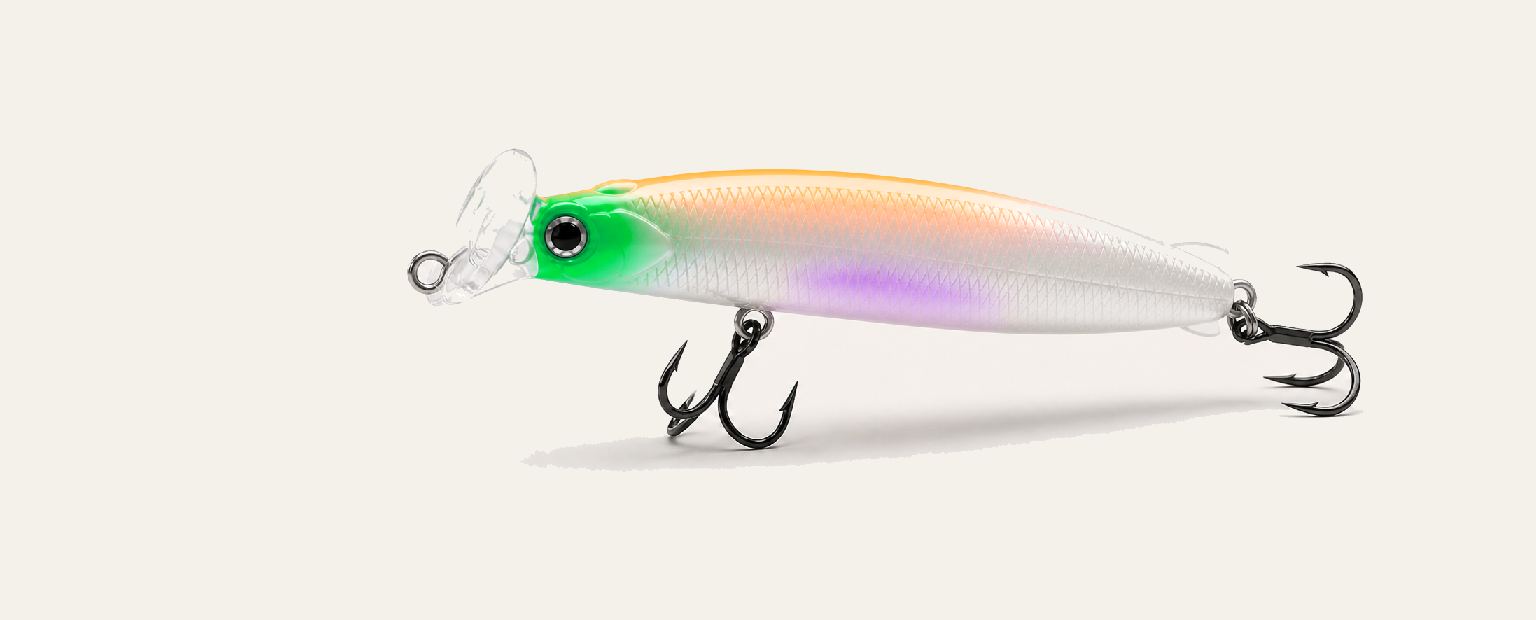
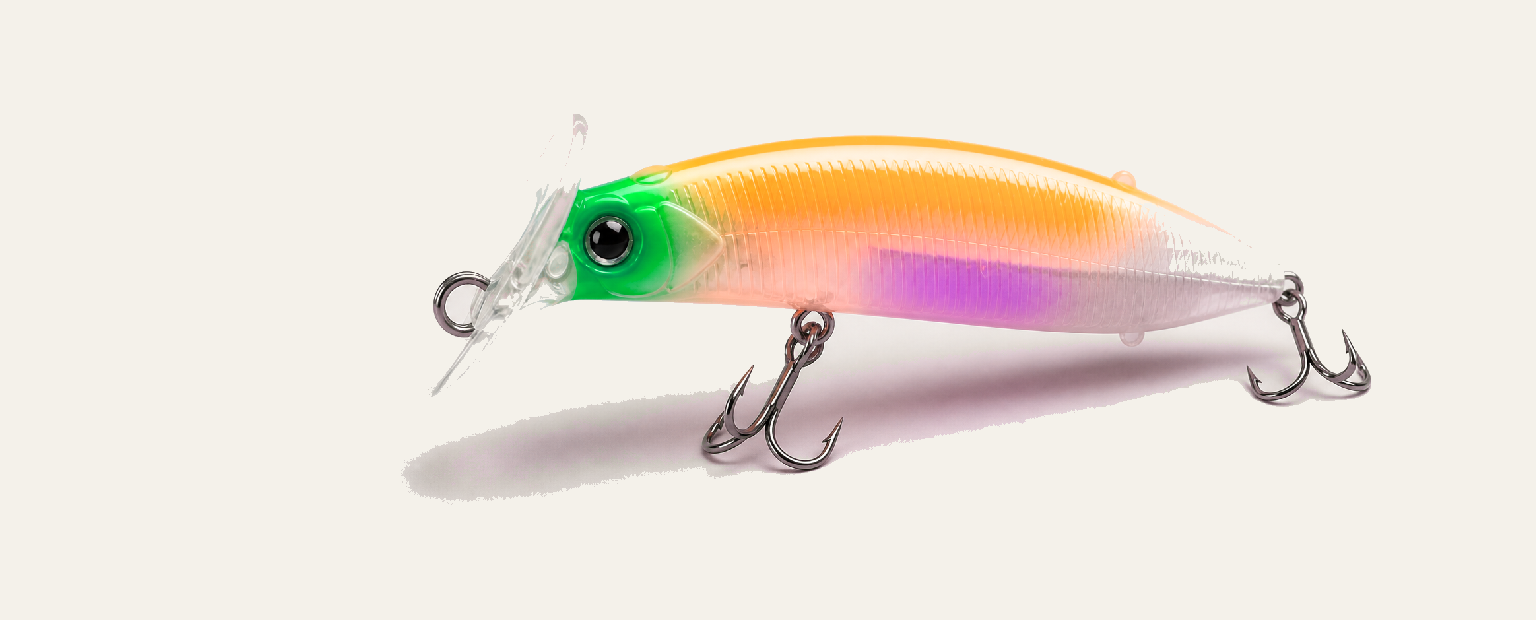
Put the tail fins ahead of a restored tail cone.

Changed region(s): [[0.25, 0.2145, 0.9062, 0.8274], [0.375, 0.1839, 0.4062, 0.2145], [0.2812, 0.3065, 0.3125, 0.3371]]

diff --git a/index.html b/index.html
@@ -21,7 +21,7 @@
   <meta name="twitter:title" content="Aftercast — Private-label bass and inshore lures">
   <meta name="twitter:description" content="Existing molds, your colors and pack, small runs, quoted to your door.">
   <meta name="twitter:image" content="https://aftercast.net/assets/logo.png">
-  <link rel="stylesheet" href="styles.css?v=lure11">
+  <link rel="stylesheet" href="styles.css?v=lure12">
   <script type="application/ld+json">
   {
     "@context": "https://schema.org",
@@ -152,18 +152,18 @@
             <div class="lure-stage">
               <img
                 data-lure-art
-                data-base="assets/lure/cgi.png?v=lure11"
-                src="assets/lure/cgi.png?v=lure11"
+                data-base="assets/lure/cgi.png?v=lure12"
+                src="assets/lure/cgi.png?v=lure12"
                 alt="Citrus finish on this mold"
               >
             </div>
             <div class="lure-finishes">
               <p class="lure-finishes-title">Your colors on this mold</p>
               <div class="swatches" role="list">
-                <button type="button" class="swatch swatch-citrus is-on" data-finish="citrus" data-src="assets/lure/cgi.png?v=lure11" role="listitem" aria-label="Citrus"></button>
-                <button type="button" class="swatch swatch-blossom" data-finish="blossom" data-src="assets/lure/blossom.png?v=lure11" role="listitem" aria-label="Blossom"></button>
-                <button type="button" class="swatch swatch-gulf" data-finish="gulf" data-src="assets/lure/gulf.png?v=lure11" role="listitem" aria-label="Gulf"></button>
-                <button type="button" class="swatch swatch-leopard" data-finish="leopard" data-src="assets/lure/leopard.png?v=lure11" role="listitem" aria-label="Leopard"></button>
+                <button type="button" class="swatch swatch-citrus is-on" data-finish="citrus" data-src="assets/lure/cgi.png?v=lure12" role="listitem" aria-label="Citrus"></button>
+                <button type="button" class="swatch swatch-blossom" data-finish="blossom" data-src="assets/lure/blossom.png?v=lure12" role="listitem" aria-label="Blossom"></button>
+                <button type="button" class="swatch swatch-gulf" data-finish="gulf" data-src="assets/lure/gulf.png?v=lure12" role="listitem" aria-label="Gulf"></button>
+                <button type="button" class="swatch swatch-leopard" data-finish="leopard" data-src="assets/lure/leopard.png?v=lure12" role="listitem" aria-label="Leopard"></button>
               </div>
             </div>
           </div>
@@ -346,6 +346,6 @@
     <p class="foot-name">Aftercast™ · bass and inshore private label</p>
   </footer>
   <script src="player.js?v=zoom4"></script>
-  <script src="lure-viewer.js?v=lure11"></script>
+  <script src="lure-viewer.js?v=lure12"></script>
 </body>
 </html>
